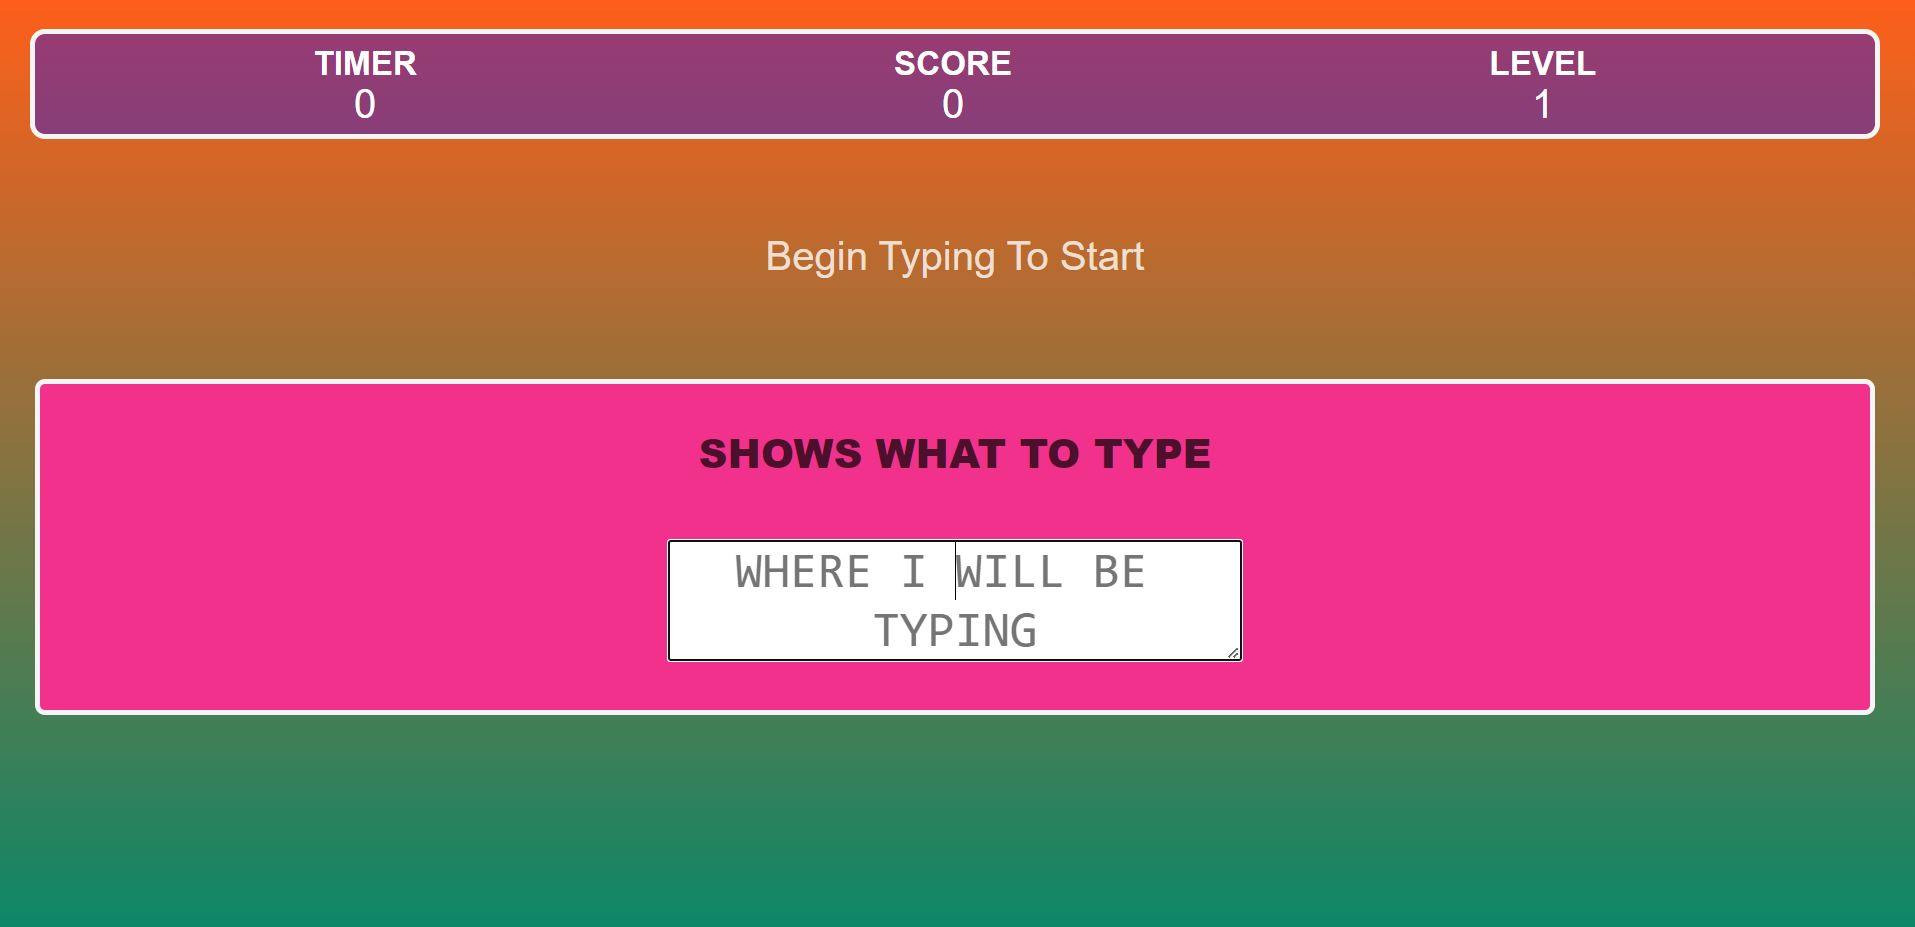
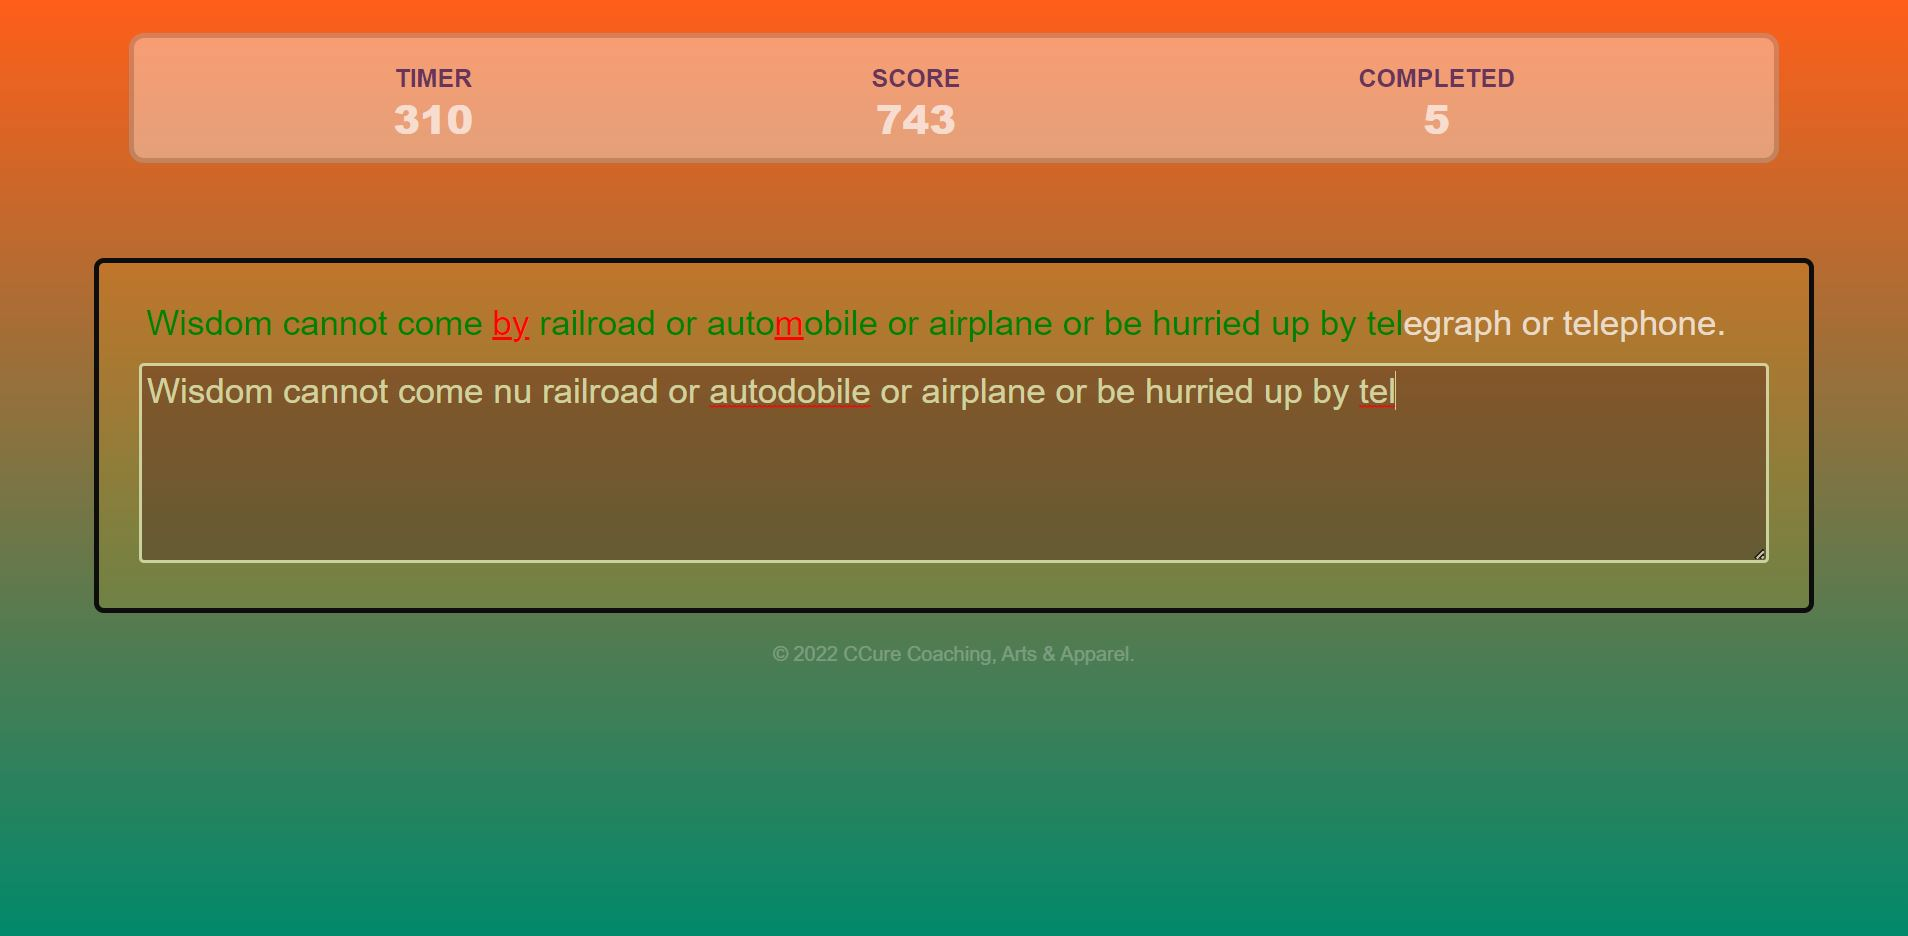
Updated homescreen screenshot, added more functionality to have a functional typing game with correct/incorrect indicators

diff --git a/game.js b/game.js
@@ -1,6 +1,25 @@
 const Quote_API_URL = `https://api.quotable.io/random`;
 const quoteDisplayEl = document.getElementById('gameQuote');
 const quoteInputEl = document.getElementById('quoteInput');
+const gameTime = document.getElementById('timer');
+const gameScore = document.getElementById('score');
+const gameCompleted = document.getElementById('completed');
+let startTime;
+let score = 0;
+let completed = 0;
+
+
+// Start Timer
+function startTimer() {
+    startTime = new Date();
+    setInterval(() => {
+        gameTime.innerText = getTimertime();
+    }, 1000);
+}
+
+function getTimertime() {
+    return Math.floor((new Date() - startTime) / 1000);
+}
 
 function getRandomQuote() {
     return fetch(Quote_API_URL)
@@ -20,10 +39,14 @@ async function renderNextQuote() {
 }
 
 renderNextQuote();
+startTimer();
+
 
 quoteInputEl.addEventListener('input', () => {
     const arrayQuote = quoteDisplayEl.querySelectorAll('span');
     const arrayValue = quoteInputEl.value.split('');
+
+    let correct = true;
 
     arrayQuote.forEach((characterSpan, index) => {
         const character = arrayValue[index];
@@ -31,12 +54,22 @@ quoteInputEl.addEventListener('input', () => {
         if (character == null) {
             characterSpan.classList.remove('correct');
             characterSpan.classList.remove('incorrect');
+            correct = false;
         } else if (character === characterSpan.innerText) {
             characterSpan.classList.add('correct');
             characterSpan.classList.remove('incorrect');
         } else {
             characterSpan.classList.remove('correct');
             characterSpan.classList.add('incorrect');
+            correct = false;
         }
     })
+
+    if (correct) {
+        score += getTimertime();
+        gameScore.innerText = score;
+        completed += 1;
+        gameCompleted.innerText = completed;
+        renderNextQuote();
+    }
 })
